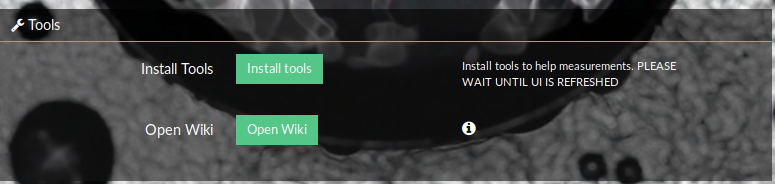
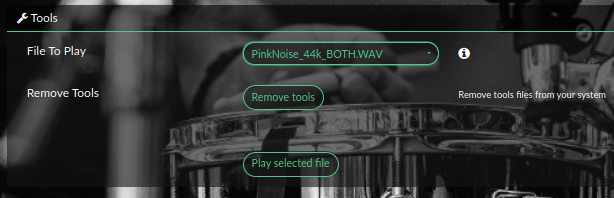
plugin- brutefir3 doc

diff --git a/docs/06_Plugins_User_Manuals/00_brutefir/00_Drc_with_Volumio.md b/docs/06_Plugins_User_Manuals/00_brutefir/00_Drc_with_Volumio.md
@@ -2,6 +2,8 @@
 
 Thanks to the plugin, you'll be able to apply __Digital Room Correction__ to your system.
 
+The plugin uses   <a href="https://torger.se/anders/brutefir.html">  brutefir</a> as convolution engine to apply FIR filters. 
+
 The plugin is able to generate filters in few clicks, using <a href="http://drc-fir.sourceforge.net/"> : DRC</a>
 
 ## What is DRC?
@@ -25,3 +27,37 @@ If you want to make your filters "by hands" :
 
  - A good Microphone. Idealy, you should use a calibrated measurements Mic. You can easily find such Microphone on internet. An usb model is about 100€
  This is a very important point. If you make your measure with a poor mic, you'll get poor results...
+
+### What you can do with the plugin
+
+The plugin uses brutefir to apply filter to the signal.
+
+It can work with up to 2x4 channels.
+- Filter type is auto selected and must be :
+
+    - text- 32/64 bits floats line (.txt) in rephase
+    - S16_LE- 16 bits LPCM mono (.wav) in rePhase
+    - S24_LE- 24 bits LPCM mono (.wav) in rePhase
+    - S24_LE- 32 bits LPCM mono (.wav) in rePhase
+    - FLOAT_LE- 32 bits floating point (.pcm)
+    - FLOAT64_LE- 64 bits mono (.wav) from Acourate
+    - FLOAT64_LE- 64 bits IEEE-754 (.dbl) in rephase
+
+        When a filter is selected, a test for clipping is provided.
+
+With a specific namming of files, you can swap between two set of filters.
+you have to create 2 set of left and right filter according to the following naming convention:
+
+- for left XXXX_1.YYY and second filter XXXX_2.YYY
+
+- for right ZZZZ_1.YYY and second filter ZZZZ_2.YYY
+
+- filters must have the same attenuation, same type.
+
+Then in the plugin,, select filter named with _1. Save, a new button appears to enable swapping!
+
+- A exclusive feature called VoBAF (Volume Based adaptativ filtering) act as a Loudness adjusted with volume change. Up to 7 seven levels are used with configurable threshold.
+
+- A section to generate filters directly in the plugin using [DRC-FIR](http://drc-fir.sourceforge.net/). You give an impulse from REW, and the plugin calculate the filter.
+
+- The possibility of playing tools files (pink noise,, sweep) from the plugin.

diff --git a/docs/06_Plugins_User_Manuals/00_brutefir/01_Preparing_your_system.md b/docs/06_Plugins_User_Manuals/00_brutefir/01_Preparing_your_system.md
@@ -17,34 +17,25 @@ and try to change __output format__ . It is a DAC dependant parameter.
 __Main Interface of the plugin__
 
 <img src="./img/general_plugin_settings.png">
-_plugin main interface_
+__plugin main interface__
 
 When it's ok, try to play a track.
 
-You can now test with a filter, just select __demo-left.txt__ and __demo-right.txt__ in plugin settings:
+You can now test with a filter, just select __demo-left.pcm__ and __demo-right.pcm__ in plugin settings:
 (few filters to test are installed by the plugin, they are placed in `/data/INTERNAL/brutefirfilter`)
 
 <img src="./img/select_filter.png">
 
-Select ```text- 32/64 bits floats line``` as filter format with these filters.
 
 and press `Apply` (It can be done while playing)
 
 You should hear the difference !
 
-__Room settings__
+__VoBAF settings__
 
-If your speakers are not at equal distance from the listening point (where you use to be to listen music), the stereo image is altered.
-Now you can set left and right distance and the plugin calculates the required delay to get a correct stereo image.
+<img src="./img/VoBAF-settings.png">
 
-__Note__ If you enter the same value for left and right, no delay is applied.
-You can give the distance for left and right, or just the difference.
-
-Value are in cm.
-
-<img src="./img/room-settings.png">
-
-<img src="./img/room_settings_values.png">
+I
 
 __Filter Creation__
 

diff --git a/docs/_index.md b/docs/_index.md
@@ -2,7 +2,7 @@
 
 &nbsp;
 ## Welcome to Volumio's documentation
-#### _(update April 20th 2019)_
+#### _(update May 9th 2020)_
 
 
 __Volumio__ is a free and Open Source Linux Distribution, designed and fine-tuned exclusively for music playback. It runs on a variety of devices, typically small and cheap computers like the Raspberry PI, but also on low power PCs, notebooks or thin clients.

diff --git a/docs/06_Plugins_User_Manuals/00_brutefir/04_Using_filters_in_Volumio.md b/docs/06_Plugins_User_Manuals/00_brutefir/04_Using_filters_in_Volumio.md
@@ -9,9 +9,8 @@ If you use DRC-FIR, they are already available in the selector.
 
 * Then, in the pluign settings, select left and right filter
 
-* Select the filter format.
 
-<img src="./img/using_filter_in_volumio.png">
+<img src="./img/select_filter.png">
 
 
 

diff --git a/docs/06_Plugins_User_Manuals/00_brutefir/02_Making_Measurment.md b/docs/06_Plugins_User_Manuals/00_brutefir/02_Making_Measurment.md
@@ -9,6 +9,7 @@ There is several steps to do that :
 
 __And__
 * Modifing the result (with REPHASE) and generating filters.
+* Using an other software (acourate, REW, etc...)
 
 __OR__
 
